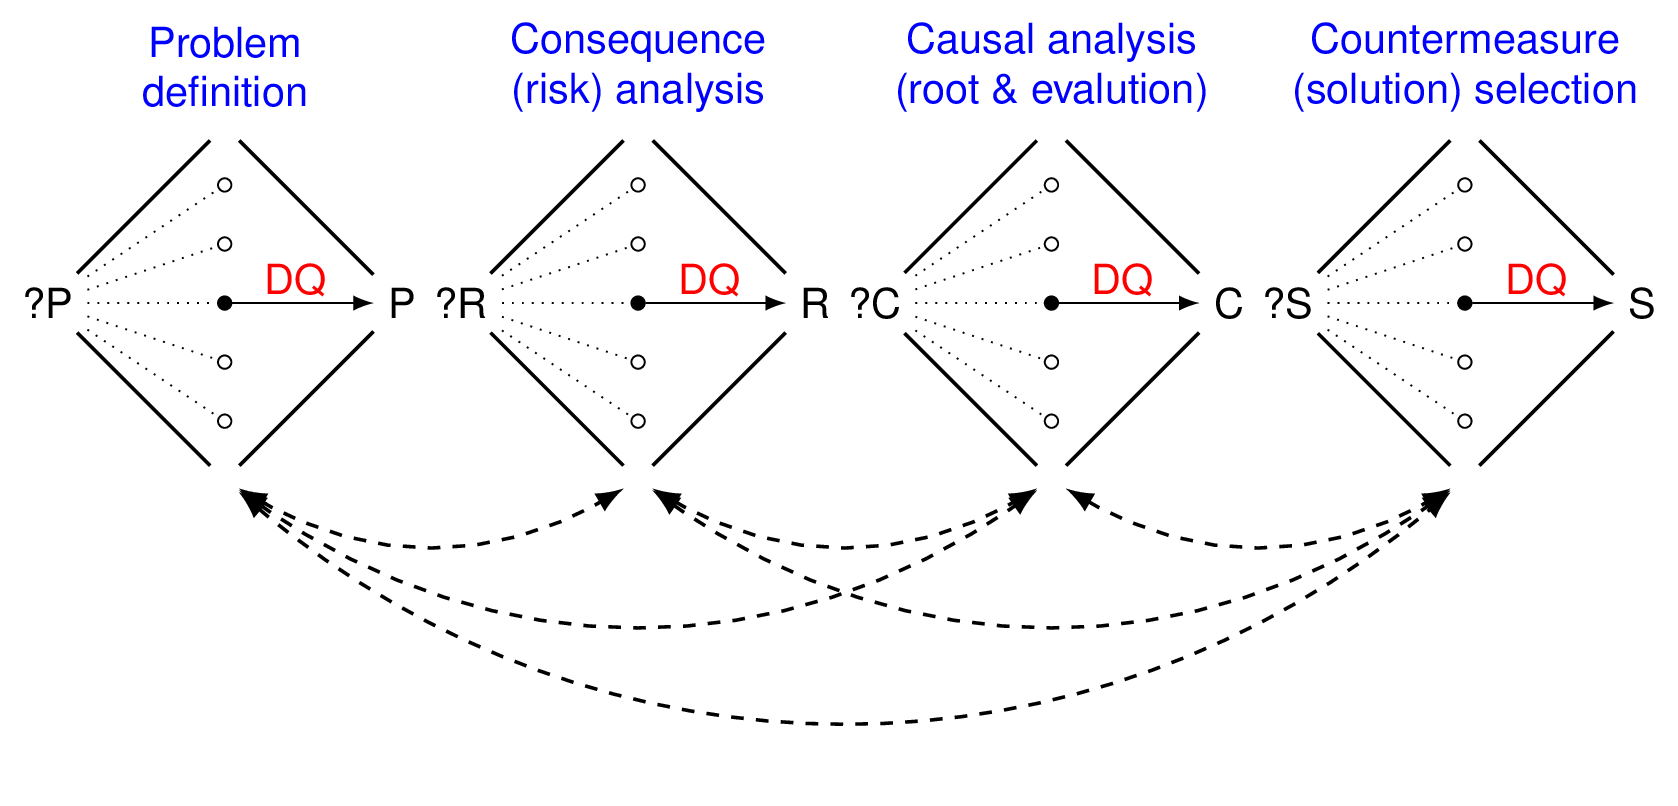
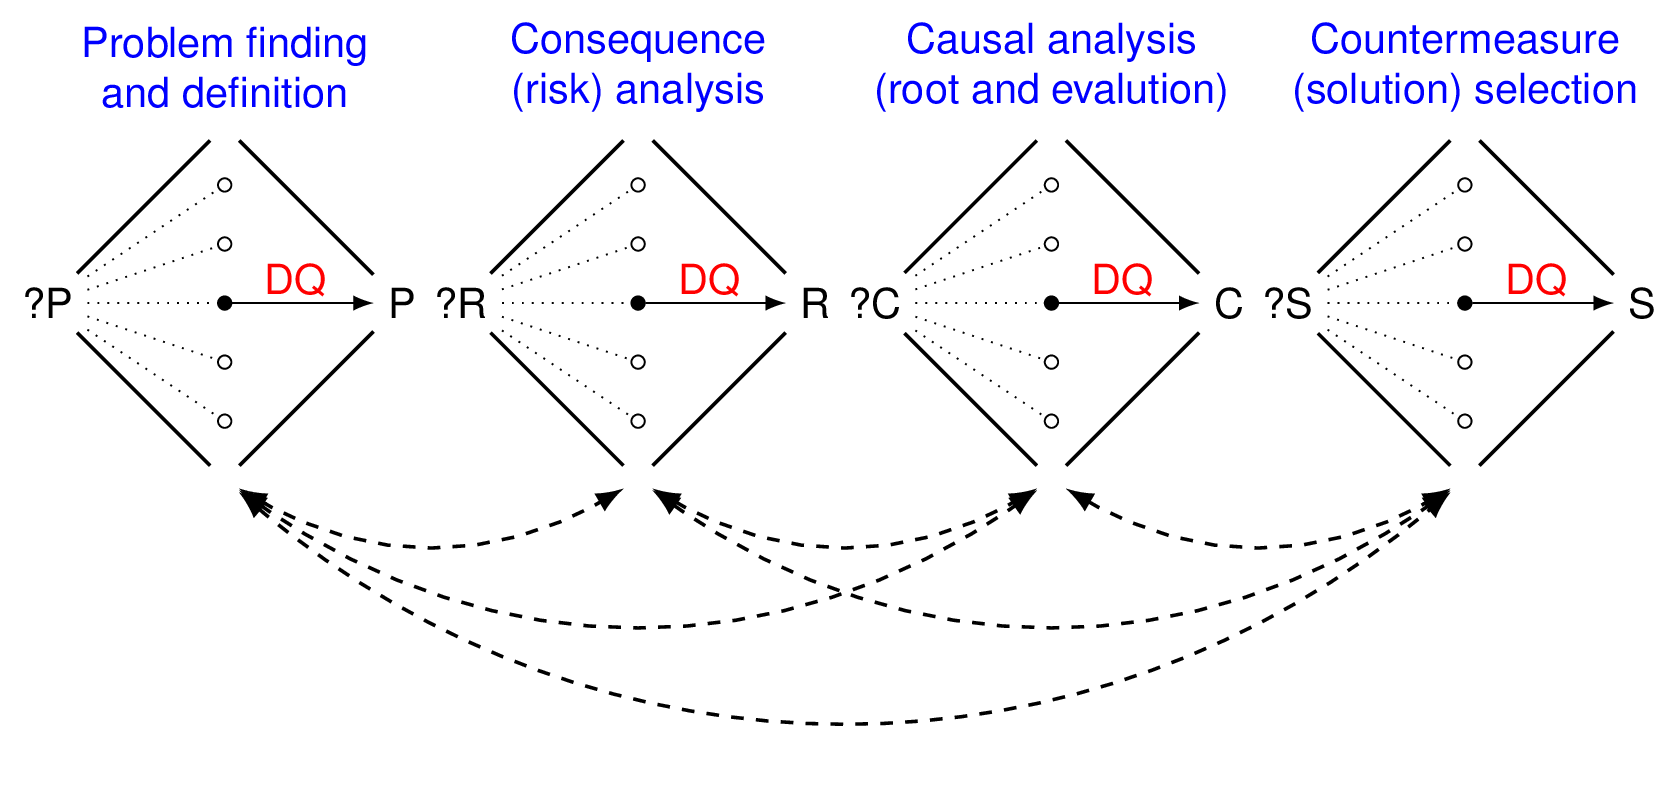
Update commit

Changed region(s): [[0.031, 0.031, 0.2169, 0.1551], [0.5268, 0.0931, 0.7437, 0.1551]]

diff --git a/posts/2021-03-13-decision-intelligence01/index.html b/posts/2021-03-13-decision-intelligence01/index.html
@@ -2469,6 +2469,7 @@ gtag('config', 'UA-111617948-1');
 <li><a href="#problem-solving">Problem solving</a></li>
 <li><a href="#decision-quality">Decision quality</a></li>
 <li><a href="#performance-improvement">Performance improvement</a></li>
+<li><a href="#behavioral-data-and-information-sciences">Behavioral, data, and information sciences</a></li>
 </ul></li>
 <li><a href="#summary">Summary</a></li>
 </ul>
@@ -2500,7 +2501,7 @@ gtag('config', 'UA-111617948-1');
 <p>Every decision involves intuition, emotions, and cognitive and social psychology. Because of VUCA, decision making is often more art than science, and the “art” depends on psychological safety and effective interpersonal skills for managing conflict and building consensus. Decisions in organizational environments evolve within a historical, political, and cultural context that may constrain or support good decision making.</p>
 <p>The failure to understand basic causal and evidential reasoning leads to wrong inferences, rigid beliefs, and poor decisions. We have seen this time and time again in the SARS’CoV-2 pandemic. The only practical and effective approach is to embrace humility, curiosity, and learning.</p>
 <h2 id="decision-intelligence">Decision intelligence</h2>
-<p>For public health officials, <strong>decision intelligence</strong> is the practical integration of problem solving, decision quality, performance improvement, and data science.</p>
+<p>For public health officials, <strong>decision intelligence</strong> is the practical integration of problem solving, decision quality, performance improvement, and behavioral, data, and information sciences.<a href="#fn2" class="footnote-ref" id="fnref2" role="doc-noteref"><sup>2</sup></a></p>
 <h3 id="problem-solving">Problem solving</h3>
 <p>Many public health officials use components of decision intelligence but are unaware of its integrated structure. Figure <a href="#fig:psolve">1</a> graphically depicts the problem-solving structure as a causal graph (also called directed acyclic graph or DAG).</p>
 <div class="layout-chunk" data-layout="l-body">
@@ -2600,7 +2601,7 @@ Figure 2: Decision quality requirements
 <tr class="even">
 <td>4</td>
 <td>Reasoning</td>
-<td><span class="math inline">\(\leftarrow\)</span> <strong>causal and probabilistic reasoning</strong> combined with <strong>data science</strong></td>
+<td><span class="math inline">\(\leftarrow\)</span> <strong>causal and probabilistic reasoning</strong>, <strong>deliberation</strong>, and <strong>data science</strong></td>
 </tr>
 <tr class="odd">
 <td>5</td>
@@ -2619,6 +2620,11 @@ Figure 2: Decision quality requirements
 <p>Put together, decision intelligence is the integration of problem solving and decision quality within a <strong>performance improvement framework</strong>, ensuring quality and continuous improvement in decision making. Table <a href="#tab:pdsa">3</a> summarizes decision intelligence as Plan-Do-Study-Act (PDSA) problem solving.</p>
 <table>
 <caption><span id="tab:pdsa">Table 3: </span> Decision intelligence is the integration of problem solving and decision quality within a performance improvement framework</caption>
+<colgroup>
+<col style="width: 8%" />
+<col style="width: 46%" />
+<col style="width: 44%" />
+</colgroup>
 <thead>
 <tr class="header">
 <th>PDSA</th>
@@ -2629,7 +2635,7 @@ Figure 2: Decision quality requirements
 <tbody>
 <tr class="odd">
 <td>Plan</td>
-<td>Problem definition</td>
+<td>Problem finding and definition</td>
 <td>What is main problem to solve?</td>
 </tr>
 <tr class="even">
@@ -2655,7 +2661,7 @@ Figure 2: Decision quality requirements
 <tr class="even">
 <td>Study</td>
 <td>Countermeasure (causal) evaluation</td>
-<td>How do we measure effectiveness?</td>
+<td>How do we measure and test effectiveness?</td>
 </tr>
 <tr class="odd">
 <td>Act</td>
@@ -2673,15 +2679,19 @@ Figure 3: PDSA problem solving is a series of decisions
 </p>
 </div>
 </div>
+<h3 id="behavioral-data-and-information-sciences">Behavioral, data, and information sciences</h3>
+<p>Decision intelligence starts with mastering the concepts above which can improve everyday important decisions. Without this foundation it is not possible to optimally use data and information. We often jump to building flashy data dashboards for making “data-driven” decisions without checking if we are solving the right problem or if we have good decision processes to begin with.</p>
+<p>Finally, decisions involve people and actions. So we must understand basic behavioral sciences, especially behavioral economics.</p>
+<p>This blog article does not cover these topics.</p>
 <h2 id="summary">Summary</h2>
 <p>Decision intelligence is integration of</p>
 <ul>
 <li>problem solving,</li>
 <li>decision quality,</li>
 <li>performance improvement, and</li>
-<li>data science (and other sciences; e.g., behavioral economics, artificial intelligence).</li>
+<li>behavioral, data, and information sciences<a href="#fn3" class="footnote-ref" id="fnref3" role="doc-noteref"><sup>3</sup></a></li>
 </ul>
-<p>Decision intelligence<a href="#fn2" class="footnote-ref" id="fnref2" role="doc-noteref"><sup>2</sup></a> is often promoted through the lens of data science, machine learning, and artificial intelligence. I believe it is more applicable for everyday use, and therefore much more generalizable and powerful.</p>
+<p>Decision intelligence<a href="#fn4" class="footnote-ref" id="fnref4" role="doc-noteref"><sup>4</sup></a> is often promoted through the lens of data science, machine learning, and artificial intelligence. The link is through is through human sensory input and processing of data and “information” in Table <a href="#tab:dqr2">2</a>. However, I believe decision intelligence concepts are applicable for everyday use, and therefore much more generalizable and powerful.</p>
 <p>In future blog entries I will expand on these concepts with more emphasis on practical applications and data science.</p>
 <div class="sourceCode" id="cb1"><pre class="sourceCode r distill-force-highlighting-css"><code class="sourceCode r"></code></pre></div>
 <div id="refs" class="references csl-bib-body" role="doc-bibliography">
@@ -2693,7 +2703,9 @@ Figure 3: PDSA problem solving is a series of decisions
 <hr />
 <ol>
 <li id="fn1" role="doc-endnote"><p>I prefer causal reasoning: a causal link has statistical dependence but statistical dependence (an association) does not mean there is a causal link<a href="#fnref1" class="footnote-back" role="doc-backlink">↩</a></p></li>
-<li id="fn2" role="doc-endnote"><p>See <a href="https://towardsdatascience.com/introduction-to-decision-intelligence-5d147ddab767" class="uri">https://towardsdatascience.com/introduction-to-decision-intelligence-5d147ddab767</a><a href="#fnref2" class="footnote-back" role="doc-backlink">↩</a></p></li>
+<li id="fn2" role="doc-endnote"><p>Behavioral economics had made large contributions to our understanding of the influences of non-conscious biases on every day decisions.<a href="#fnref2" class="footnote-back" role="doc-backlink">↩</a></p></li>
+<li id="fn3" role="doc-endnote"><p>Behavioral economics had made large contributions to our understanding of the influences of non-conscious biases on every day decisions.<a href="#fnref3" class="footnote-back" role="doc-backlink">↩</a></p></li>
+<li id="fn4" role="doc-endnote"><p>See <a href="https://towardsdatascience.com/introduction-to-decision-intelligence-5d147ddab767" class="uri">https://towardsdatascience.com/introduction-to-decision-intelligence-5d147ddab767</a><a href="#fnref4" class="footnote-back" role="doc-backlink">↩</a></p></li>
 </ol>
 </section>
 <!--radix_placeholder_article_footer-->

diff --git a/about.html b/about.html
@@ -2420,7 +2420,7 @@ code span.wa { color: #5e5e5e; font-style: italic; } /* Warning */
 <p><em>Radical transformational leadership is leading change from the universal values of dignity, equity, compassion and humility to transform self, people, systems and cultures towards equity, antiracism and sustainable results</em>.</p>
 <p>… <em>Inspired by <a href="https://www.radicallytransform.org/about2">Dr. Monica Sharma</a>, Former director of United Nations Leadership Development</em></p>
 </blockquote>
-<p>I am the Director and State Public Health Officer at the California Department of Public Health (CDPH). Striving to embody and promote the universal values of dignity, equity, compassion and humility, I work to mobilize communities and institutions to transform policies and systems towards a culture of equity, antiracism, healing and health for all people and our planet. As State Public Health Officer, I exercise leadership and legal authority to protect and promote equity and health. As CDPH Director, I direct a nationally accredited state public health department. I am volunteer adjunct faculty at the University of California, Berkeley School of Public Health. My curriculum vitae is <a href="https://github.com/taragonmd/cv/blob/master/ModCV_Tomas-J-Aragon.pdf">here</a>.</p>
+<p>I am the <a href="https://www.cdph.ca.gov/Pages/Meet-the-Director.aspx">State Public Health Officer and Director</a> of the <a href="https://www.cdph.ca.gov/">California Department of Public Health</a> (CDPH). Striving to embody and promote the universal values of dignity, equity, compassion and humility, I work to mobilize communities and institutions to transform policies and systems towards a culture of equity, antiracism, healing and health for all people and our planet. As State Public Health Officer, I exercise leadership and legal authority to protect and promote equity and health. As CDPH Director, I direct a nationally accredited state public health department. I am volunteer adjunct faculty at the University of California, Berkeley School of Public Health. My curriculum vitae is <a href="https://github.com/taragonmd/cv/blob/master/ModCV_Tomas-J-Aragon.pdf">here</a>.</p>
 <div class="layout-chunk" data-layout="l-body">
 <div class="figure" style="text-align: center"><span id="fig:unnamed-chunk-1"></span>
 <img src="images/IFxSd89i_400x400.jpg" alt="Tomás J. Aragón, MD, DrPH" width="200" />
